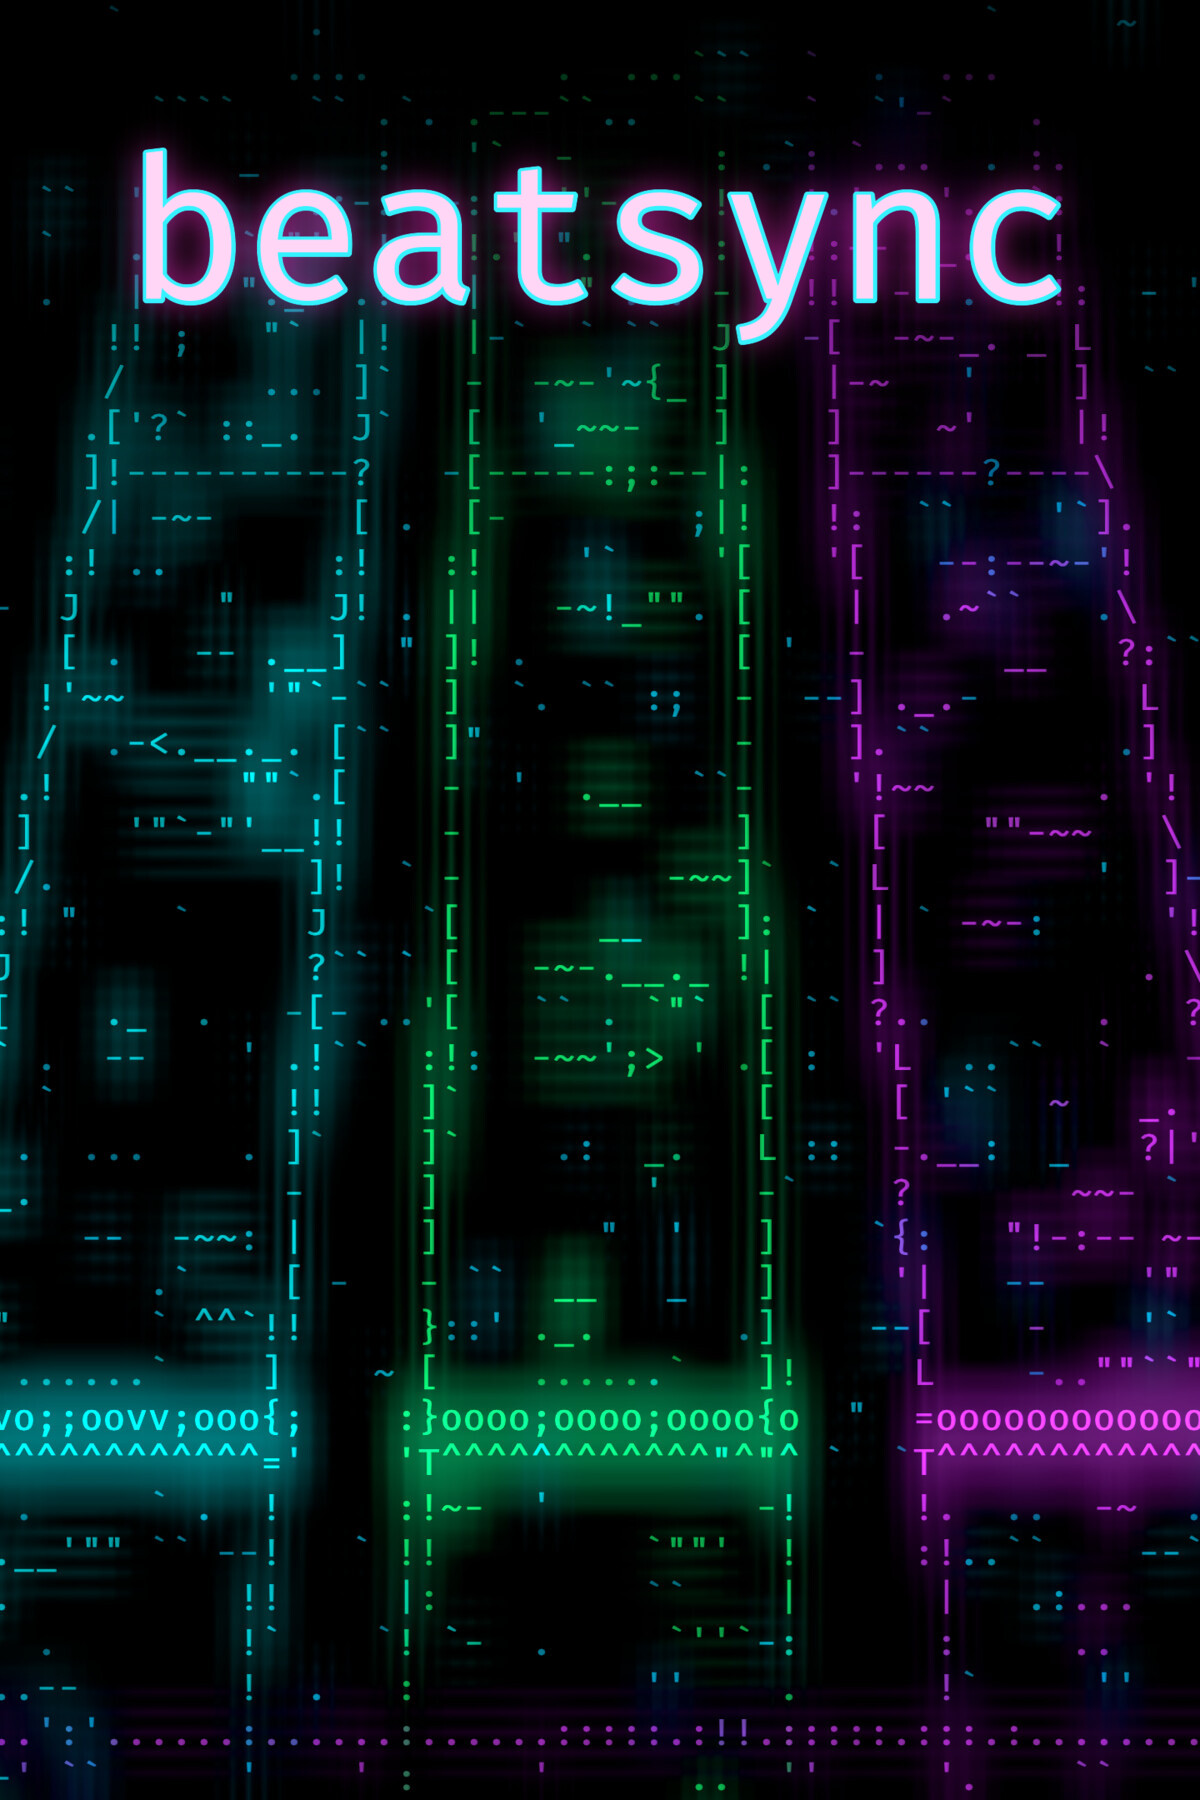
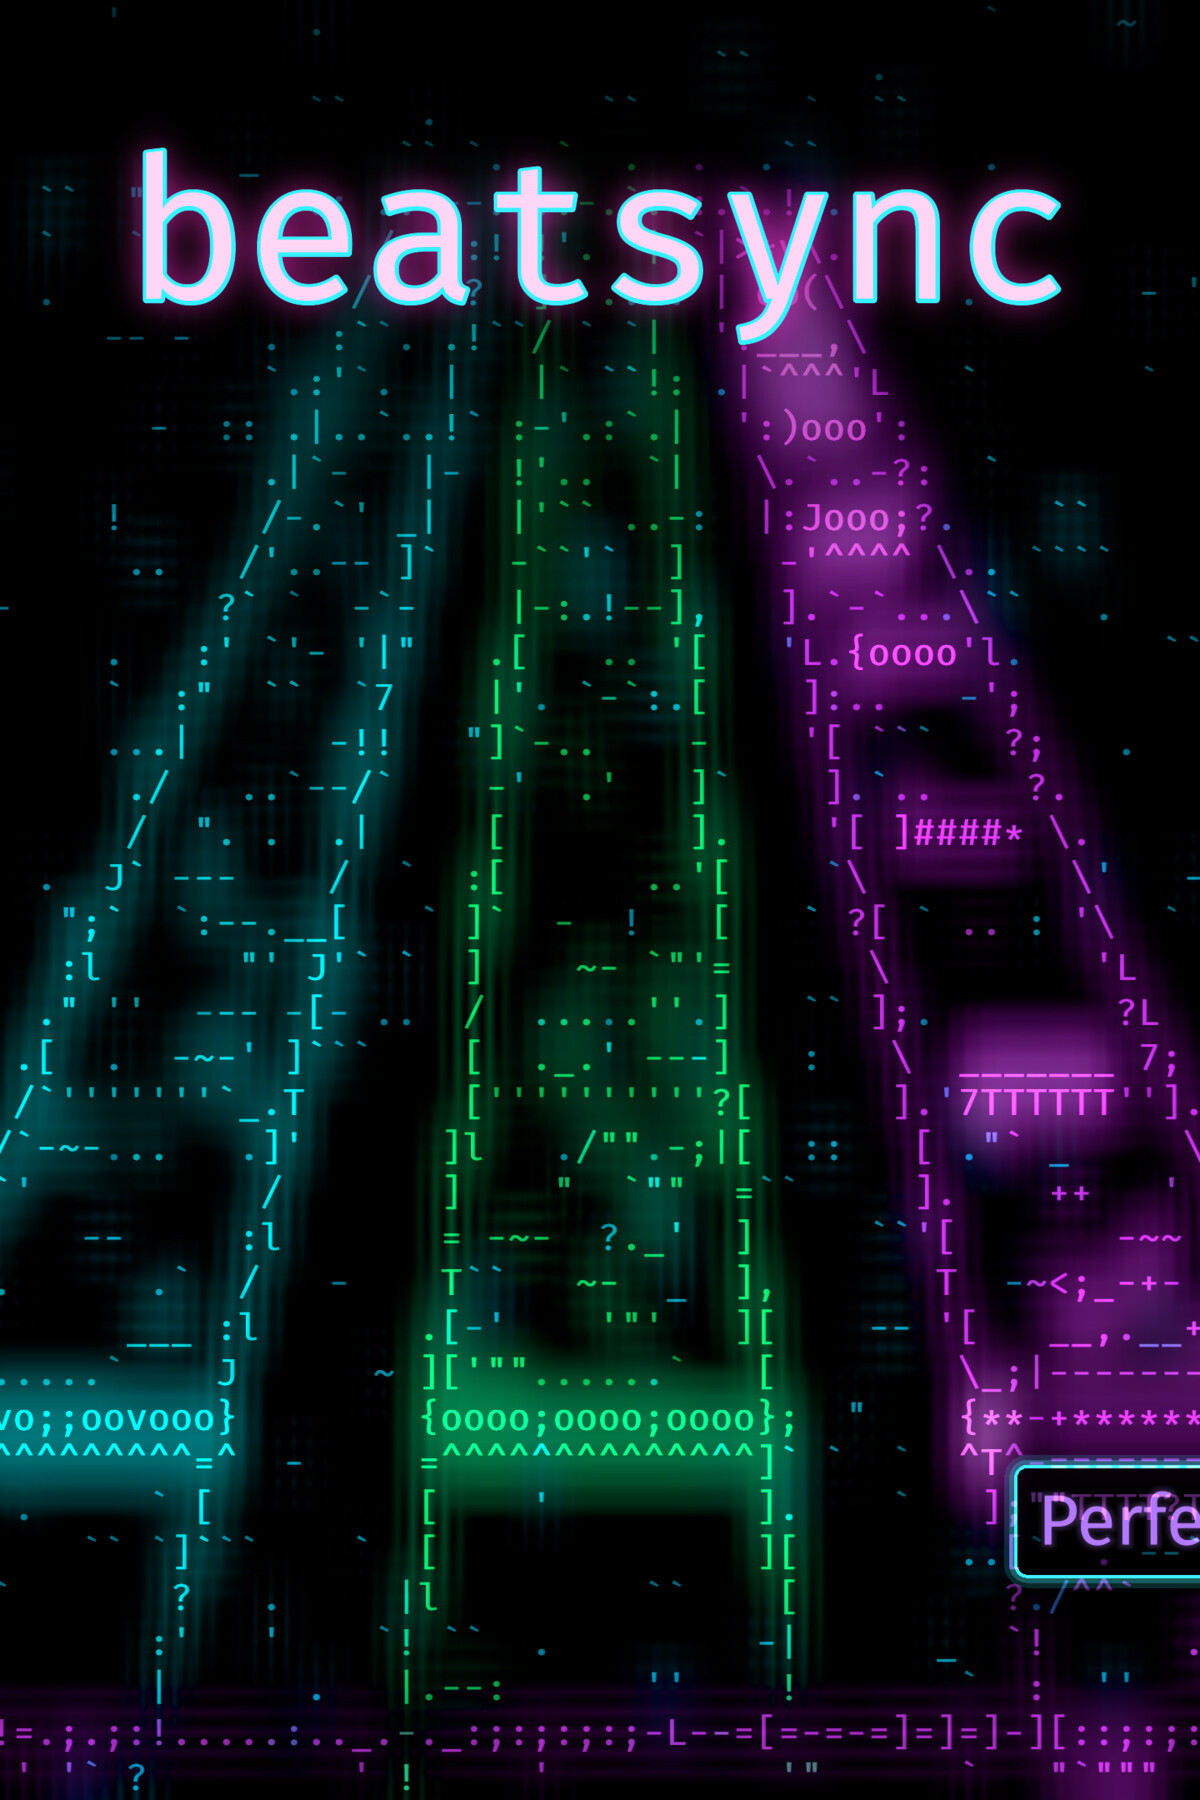
beatsync: 0.32.0 changelog, new launcher art and README picture from the receding rivers; the flash gate's song list without repeats; the newcomer gate takes --song; the wait gate allows the song's own beat lengths

diff --git a/CHANGELOG.md b/CHANGELOG.md
@@ -1,5 +1,34 @@
 # Changelog
 
+## 0.32.0
+
+- **beatsync**'s rivers recede in true perspective: each is a road going away toward a horizon above the screen, its
+  far end high up and a quarter of its width at the gate, the current, banks and beat lines fading into a haze there.
+  A river shows twice the beats it did (Easy 8, Medium 6.4, Hard 5.2), packed toward the horizon, while a note covers
+  its last beat within about 10% of the distance it did, so the timing reads as before. Notes take the road's
+  perspective: small far off and growing all the way to the gate, with no brighter burst on the beat (their light
+  near the gate grows only with their size), and the flash checks pass on the densest songs.
+- **beatsync**'s mix answers the player: between hits the kick, clap and bass sit a little under the record with
+  their top softened, and every hit punches its part to full and opens it, falling back over a quarter second (on
+  Easy the kicks you play stand about 4 dB over the ones you do not). A miss now drops only the part missed, about
+  13 dB with a low-pass, and it comes back by itself over a beat or at the next hit, so a few misses never empty the
+  mix; the other track and the song's level never move in play.
+- **beatsync** never keeps a player waiting: play starts 8 beats before the first note of the level chosen (after the
+  count-in), and the five songs are re-charted so no level leaves more than two bars without a note: in breaks
+  and intros the charts play what is there (claps and hats on the clap lane, bass onsets, and where the drums and bass
+  are silent the other track's chords and onsets on the bass lane), and every level's first note comes within a beat
+  of the song's first sound. The song tooling enforces it (`make-song --charts-only` re-charts a package without
+  touching its tracks; `check-songs` holds the longest gap and the first note, a chart with a 30 s hole as its
+  control). If a wait of more than three bars remains, the banks fill with light as it passes
+  and a countdown over its last four bars says when the notes come back.
+- New beatsync gates through romdev, each with a control that must fail: `tests/beatsync-depth.mjs` (notes grow from
+  the far end to the gate in every lane, twice the beats on screen, the last beat's distance; controls: every note one
+  size, notes shrinking as they come), `tests/beatsync-mix.mjs` (from the recorded sound: a kick miss dips only the
+  kick and it recovers, the clap, bass and other tracks within 0.5 dB; a hit kick stands 3 dB over an unplayed one;
+  controls: a miss that ducks every lane, the reward off), `tests/beatsync-wait.mjs` (every song and level starts
+  within 8 beats of its first note; the wait indicator shows in a long wait and is gone once notes are back;
+  controls: songs played from the top, the indicator always up). New launcher art and README picture.
+
 ## 0.31.0
 
 - **beatsync** plays on a note highway: three rivers of neon characters side by side, laid out as the buttons sit, the

diff --git a/README.md b/README.md
@@ -137,7 +137,7 @@ game.
 
 ### beatsync
 
-![beatsync: three rivers of neon characters side by side, the notes riding down to the gates, a Perfect under the kick gate](docs/screenshots/beatsync.jpg)
+![beatsync: three rivers of neon characters receding toward a horizon, the notes small far off and growing as they ride down to the gates, a Perfect under the bass gate](docs/screenshots/beatsync.jpg)
 
 A house-music rhythm game for one player on three buttons: you are the rhythm
 section of an instrumental house track, playing the kick, the clap and the
